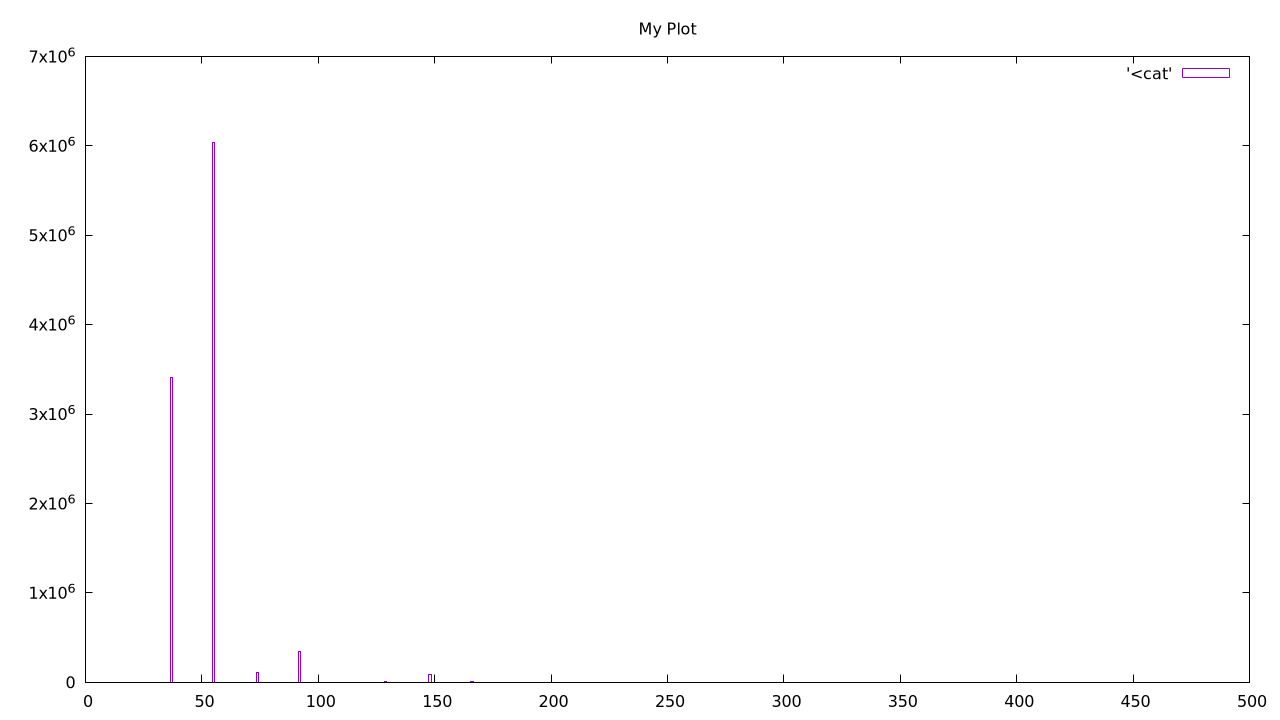
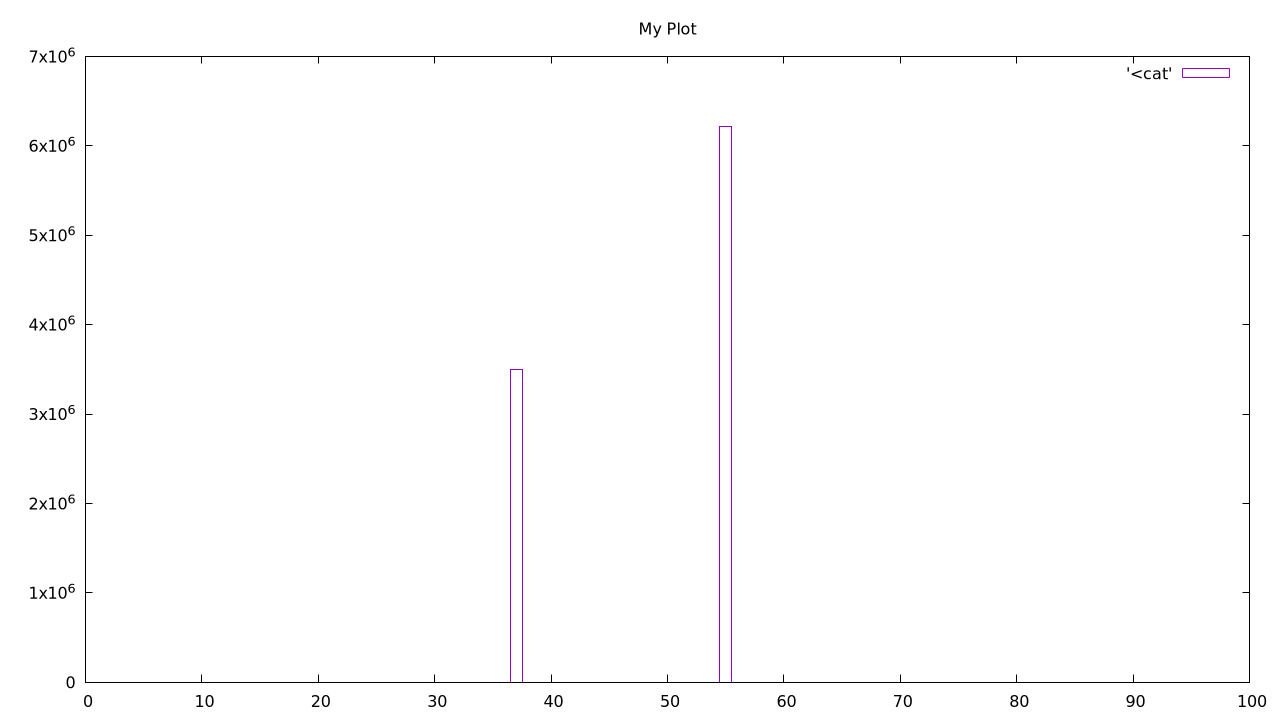
yes1

diff --git a/ex1.0/rdtsc.c b/ex1.0/rdtsc.c
@@ -11,9 +11,9 @@ uint64_t rdtsc(void){
 }
 
 int main(void){
-	int ns_max = 50;
+	int ns_max = 100;
 	int histogram[ns_max];
-	memset(histogram, 0, sizeof(histogram));
+	memset(histogram, 0, sizeof(int)*ns_max);
 
 	for(int i = 0; i < 10*1000*1000; i++){
     
